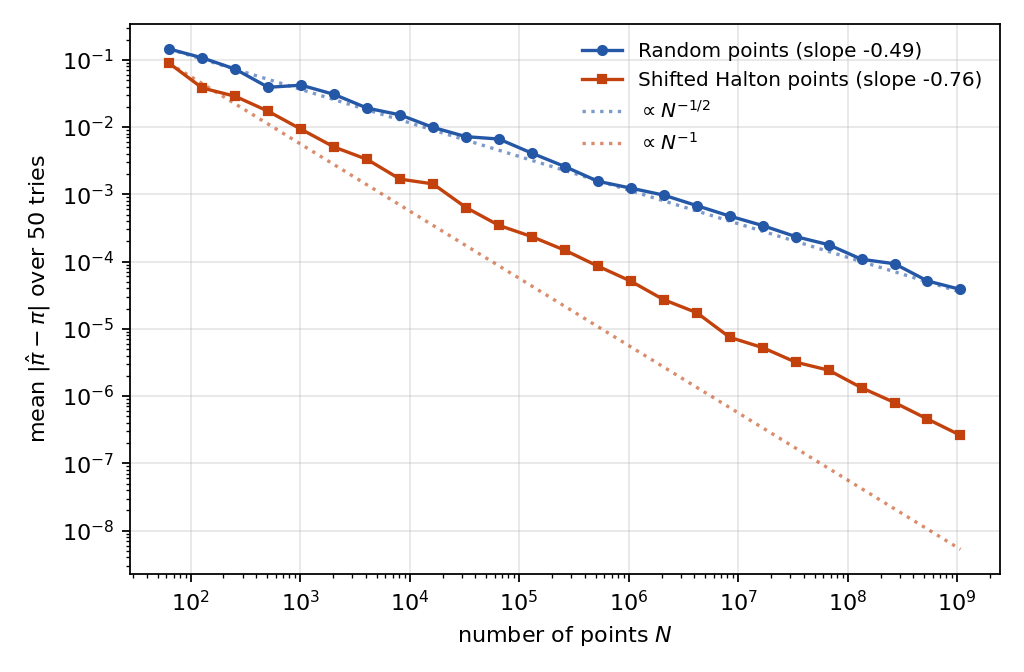
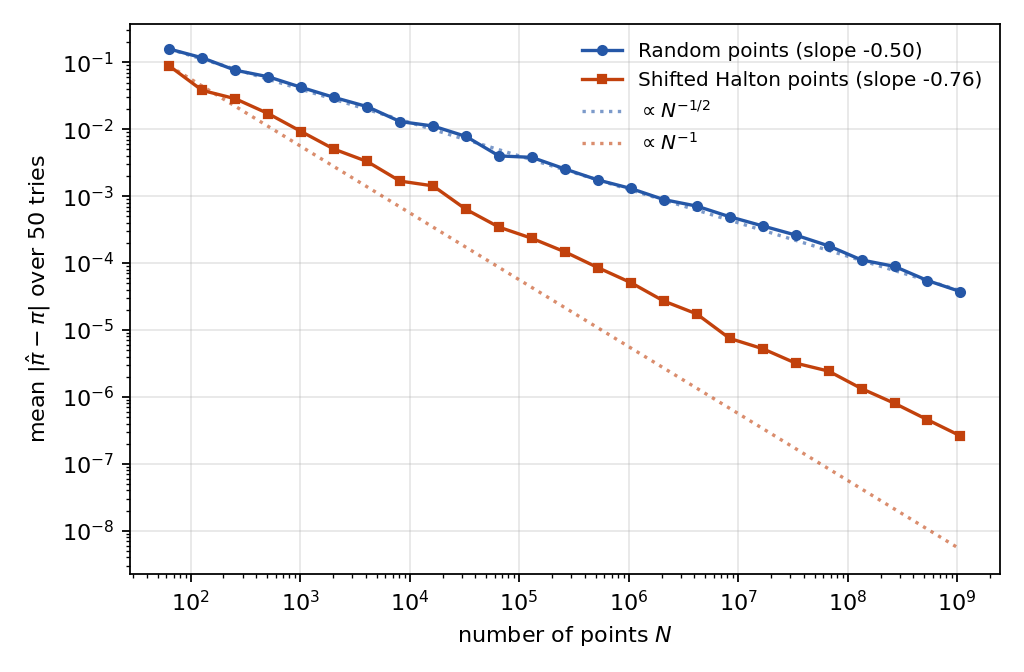
post(π): show our guesses next to the real π (#8)
* post(π): explain what calculating pi means; show the guesses next to the real pi

experiment.py now saves each method's first-try guess and draws guesses.png.
The new numbers need a fresh Delta run.

* post(π): record the guesses-vs-real-π run on a Delta H100; match text to new numbers

---------

diff --git a/posts/seawan/monte-carlo-vs-quasi-monte-carlo/experiment.py b/posts/seawan/monte-carlo-vs-quasi-monte-carlo/experiment.py
@@ -18,6 +18,7 @@ Outputs:
   error.png     log-log plot of error vs. N
   darts.png     256 random points next to 256 evenly spread points
   race.png      how many times more accurate the evenly spread points are, per N
+  guesses.png   the guess for pi from the first try of each method, next to the real pi
 
 The last line printed is a JSON summary of the headline numbers.
 
@@ -142,6 +143,9 @@ def run_experiment():
             "mc_std": mc_err.std(),
             "rqmc_mean_abs_err": rqmc_err.mean(),
             "rqmc_std": rqmc_err.std(),
+            # the actual guesses from the first of the 50 tries, to compare with the real pi
+            "mc_guess_try1": 4.0 * mc_inside[0, col] / n,
+            "rqmc_guess_try1": 4.0 * rqmc_inside[0, col] / n,
         })
     return rows
 
@@ -165,7 +169,7 @@ def save_csv(rows, path="results.csv"):
         writer = csv.DictWriter(f, fieldnames=rows[0].keys())
         writer.writeheader()
         for row in rows:
-            writer.writerow({k: (f"{v:.6g}" if isinstance(v, float) else v) for k, v in row.items()})
+            writer.writerow({k: (f"{v:.10f}" if "guess" in k else f"{v:.6g}" if isinstance(v, float) else v) for k, v in row.items()})
 
 
 def save_plot(n, mc, rqmc, slope_mc, slope_rqmc, path="error.png"):
@@ -198,6 +202,25 @@ def save_darts_picture(n=256, path="darts.png"):
         ax.plot(np.cos(t), np.sin(t), color="black", lw=1.5)
         ax.set(xlim=(0, 1), ylim=(0, 1), aspect="equal", xticks=[], yticks=[])
         ax.set_title(f"{title}\n{inside.sum()} of {n} inside, so π ≈ {4 * inside.mean():.3f}", fontsize=10)
+    fig.savefig(path, facecolor="white")
+
+
+def save_guesses_chart(rows, path="guesses.png"):
+    """The first try's guess for pi with each method, as darts are added, next to the real pi."""
+    n = np.array([r["n"] for r in rows])
+    fig, ax = plt.subplots(figsize=(6.8, 4.0), dpi=160)
+    ax.axhline(np.pi, color="#111827", lw=1.2, ls="--", label="real π = 3.14159265…")
+    ax.semilogx(n, [r["mc_guess_try1"] for r in rows], "o-", color="#2557a7", ms=4, label="random darts' guess")
+    ax.semilogx(n, [r["rqmc_guess_try1"] for r in rows], "s-", color="#c2410c", ms=4, label="Halton darts' guess")
+    ticks = [t for t in (100, 10_000, 1_000_000, 100_000_000) if t <= n[-1]]
+    ax.set_xticks(ticks, [{100: "100", 10_000: "10 thousand", 1_000_000: "1 million", 100_000_000: "100 million"}[t] for t in ticks])
+    ax.minorticks_off()
+    ax.set_xlabel("number of darts")
+    ax.set_ylabel("guess for π")
+    ax.grid(True, alpha=0.3)
+    ax.legend(frameon=False)
+    ax.spines[["top", "right"]].set_visible(False)
+    fig.tight_layout()
     fig.savefig(path, facecolor="white")
 
 
@@ -238,6 +261,7 @@ def main():
     save_plot(n, mc, rqmc, slope_mc, slope_rqmc)
     save_darts_picture()
     save_race_chart(rows)
+    save_guesses_chart(rows)
 
     # Final line: machine-readable summary (kept by Delta as result_summary)
     by_n = {r["n"]: r for r in rows}
@@ -254,6 +278,12 @@ def main():
             summary[f"random_error_{label}"] = float(f"{r['mc_mean_abs_err']:.2g}")
             summary[f"halton_error_{label}"] = float(f"{r['rqmc_mean_abs_err']:.2g}")
             summary[f"better_by_{label}"] = round(float(r["mc_mean_abs_err"] / r["rqmc_mean_abs_err"]), 1)
+    # first try's guesses at a few sizes, to set side by side with the real pi
+    summary["pi_true"] = round(float(np.pi), 10)
+    for label, size in (("64", 2**6), ("4k", 2**12), ("262k", 2**18), ("16m", 2**24), ("1b", 2**30)):
+        if size in by_n:
+            summary[f"guess_random_{label}"] = round(float(by_n[size]["mc_guess_try1"]), 10)
+            summary[f"guess_halton_{label}"] = round(float(by_n[size]["rqmc_guess_try1"]), 10)
     print(json.dumps(summary))
 
 

diff --git a/posts/seawan/monte-carlo-vs-quasi-monte-carlo/index.md b/posts/seawan/monte-carlo-vs-quasi-monte-carlo/index.md
@@ -98,7 +98,7 @@ An AI called Claude wrote a program in Python, a language for giving computers i
 
 Here is the part that checks each dart. You do not need to read computer code to follow the story.
 
-@include experiment.py#L56-L58
+@include experiment.py#L57-L59
 
 We started with 64 darts. Then we doubled the number again and again, ending with just over a billion. A billion is a thousand million!
 
@@ -119,11 +119,34 @@ A **GPU**, a computer chip that can do many checks at once, ran the experiment i
 
 ## Results
 
+### Our guesses for pi
+
+First, the guesses themselves. This picture shows each team's guess in its first game as we add more darts. The dashed line is the real pi.
+
+![A chart of guesses for pi. With few darts, both teams' guesses jump around near the dashed line for the real pi. As the number of darts grows, both guesses settle onto the line, and the Halton guess settles sooner.](guesses.png "Each team's guess for π in its first game, as the number of darts grows. The dashed line is the real π. With more darts, both guesses close in on it.")
+
+Here are some of those guesses next to the real pi:
+
+| Number of darts | Team Random's guess | Team Halton's guess |
+|---:|---:|---:|
+| 64 | {{result.guess_random_64}} | {{result.guess_halton_64}} |
+| 4,096 | {{result.guess_random_4k}} | {{result.guess_halton_4k}} |
+| 262,144 | {{result.guess_random_262k}} | {{result.guess_halton_262k}} |
+| about 17 million | {{result.guess_random_16m}} | {{result.guess_halton_16m}} |
+| about a billion | {{result.guess_random_1b}} | {{result.guess_halton_1b}} |
+| **The real pi** | **{{result.pi_true}}** | **{{result.pi_true}}** |
+
+Read the table from top to bottom and compare each guess with the real pi on the last row, digit by digit. With 64 darts, both teams only get 3.1 right. With about a billion darts, Team Random gets 3.141 right and Team Halton gets 3.141592 right.
+
+These are single games, and a single game can be lucky or unlucky. To compare the teams fairly, we need the average over all 50 games.
+
+### Which team guessed better?
+
 Team Halton had the smaller average error at every number of darts we tested.
 
 Its lead grew as the games got bigger.
 
-![A bar chart. With 64 darts, neat darts are 1.6 times more accurate. With 4,096 they are 5.8 times, with 262,144 they are 18 times, with about 17 million they are 65 times, and with about a billion they are 148 times more accurate.](race.png "How many times smaller Team Halton's average miss was than Team Random's, for each number of darts. Each bar compares 50 games per team.")
+![A bar chart. With 64 darts, neat darts are 1.8 times more accurate. With 4,096 they are 6.6 times, with 262,144 they are 17 times, with about 17 million they are 68 times, and with about a billion they are 144 times more accurate.](race.png "How many times smaller Team Halton's average miss was than Team Random's, for each number of darts. Each bar compares 50 games per team.")
 
 At the smallest size, the difference was modest. At about a billion darts, Team Halton’s average miss was about {{result.better_by_1b}} times smaller.
 
